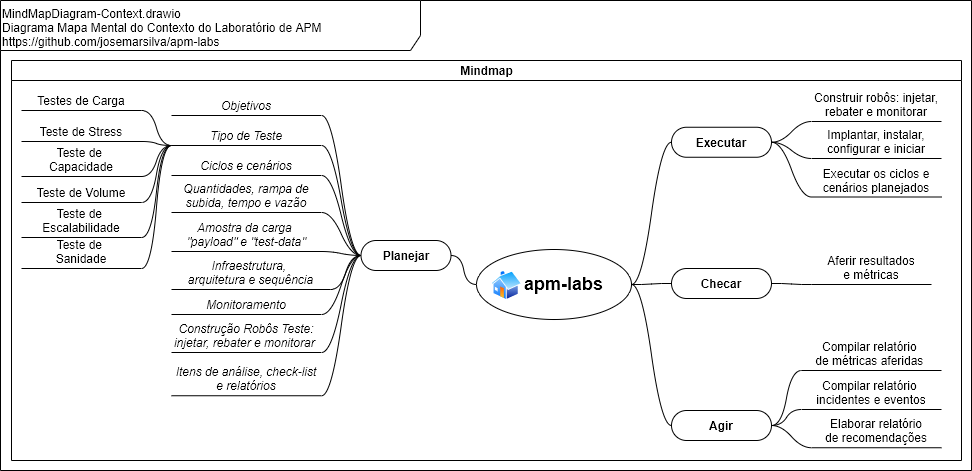
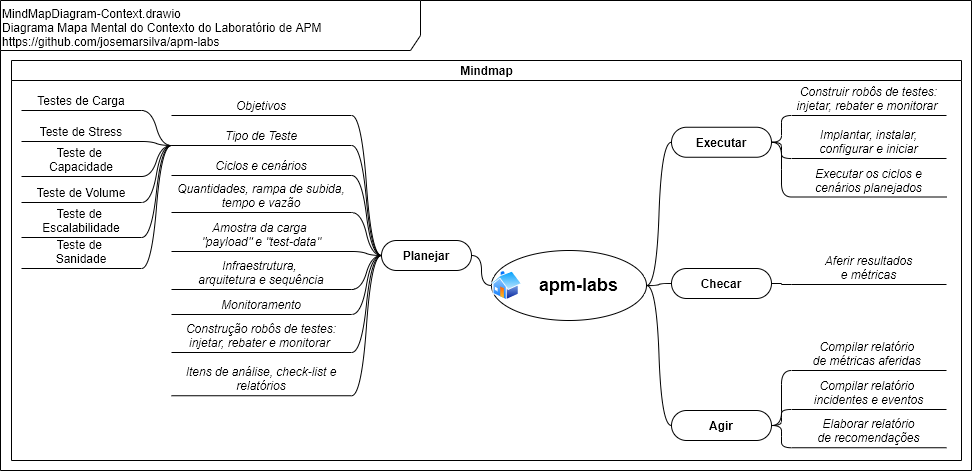
README.md e ./doc/*

diff --git a/README.md b/README.md
@@ -146,7 +146,7 @@ $ rm apache-jmeter-5.3.tgz
 
 ### 3.4. Guia de Execução, Demonstração e Cenários de Teste
 
-#### 3.4.1. Performance Test JMeter vs Web Server 
+#### 3.4.1. Performance Test - injetar (Browser, Curl, Postman, SoapUI e JMeter) vs rebater (Web Server)
 
 ##### Planejar
 
@@ -157,7 +157,7 @@ $ rm apache-jmeter-5.3.tgz
 | Cenário      | Detalhamento |
 | :---         |     :---:    |
 | Cenário-01   | *Teste de Carga (Load Test)* da aplicação com um `Browser` |
-| Cenário-02   | *Teste de Carga (Load Test)* da aplicação com um `Curl(windows)` |
+| Cenário-02   | *Teste de Carga (Load Test)* da aplicação com um `Curl(windows)` com variações de quantidades, rampa de subida, tempo e vazão |
 | Cenário-03   | *Teste de Carga (Load Test)* da aplicação com um `Postman` |
 | Cenário-04   | *Teste de Carga (Load Test)* da aplicação com um `SoapUI` |
 | Cenário-05   | *Teste de Carga (Load Test)* da aplicação com um `JMeter` |
@@ -167,20 +167,27 @@ $ rm apache-jmeter-5.3.tgz
 
 | Quantidade _(qty)_ | Rampa _(ramp up)_ | Tempo _(dur)_ | Vazão _(throughput)_ | Obs  |
 | ---:               | :---:             | :---:         | :---                 | :--- |
-| 1000               | n/a               | n/a           | 1 threads            | n/a  |
+| 1000 _requests_    | n/a               | n/a           | Cenários com 1 e 10 _threads_ simultâneas | n/a  |
 
 
 * **Amostra da carga "payload" e "test-data"**: n/a
 * **Infraestrutura, arquitetura e sequência**:
+
+![DeployDiagram-Browser-Curl-Postman-SoapUI-JMeter-vs-NodeJsWebserver.png](./doc/DeployDiagram-Browser-Curl-Postman-SoapUI-JMeter-vs-NodeJsWebserver.png) 
+
+
 * **Monitoramento**: n/a
+* **Construção robôs de testes: injetar, rebater e monitorar**:
+  * Os robôs de teste para _injetar_:
+    * `win-cmd-curl-script-webserver.bat` construído e disponível em `./src/curl-scripts`
+  * Os robôs de teste para _rebater_:
+    * `nodejs-webserver.js` construído e disponível em `./src/nodejs-webserver`
+  * Os robôs de teste para _monitorar_:
+    * n/a
+
 * **Itens de análise, check-list e relatórios**: Quadro comparativo das características de cada ferramenta, facilidades, dificuldades, etc
 
 ##### Executar
-
-* *Construir* os robôs de testes para injetar, rebater e monitorar
-  * Os robôs de teste para *injetar* deverão serforam construído é o ``
-  * Os robôs de teste para *rebater* foram construído é o `nodejs-webserver.js`
-  * Os robôs de teste para *monitorar* é n/a a este cenário
 
 * *Iniciar* o servidor web local *nodejs-webserver*
 
@@ -207,14 +214,6 @@ nodejs-webserver> node nodejs-webserver.js
   * Pronto! Você encontrou a *métrica* de *TPS - Transações por Segundos* deste cenário
 
 
-* Iniciar o Apache JMeter
-
-* Referências:
-
-
-#### b. Cenário 02: HTTP JSON Server
-
-* n/a
 
 
 ### 3.5. Design Patterns, Standard, Conventions and Best Practices
